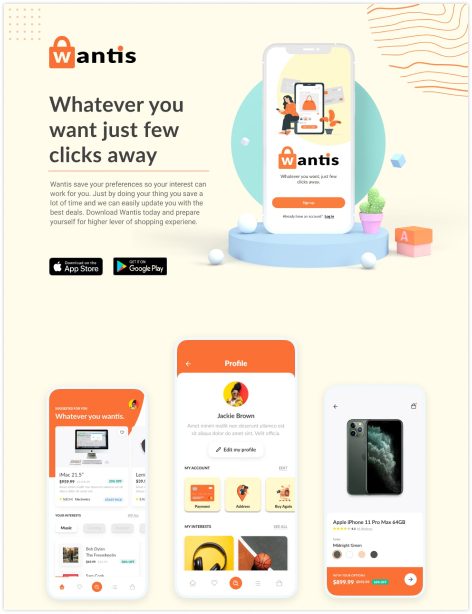
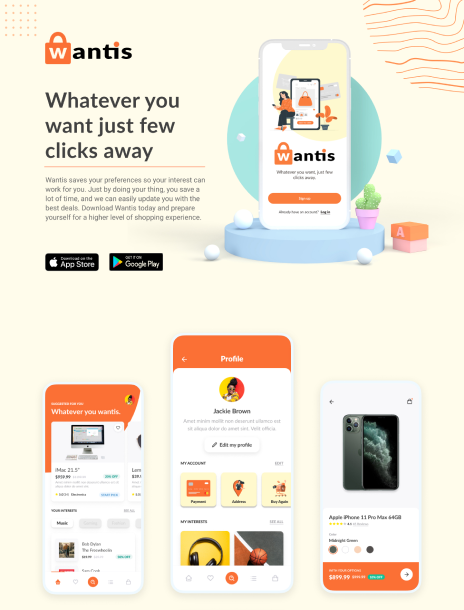
wantis

diff --git a/css/main.scss b/css/main.scss
@@ -825,7 +825,7 @@ color: white; }
             align-content: center;
             // z-index: 1;
             bottom: 0;
-            left: -157px;
+            left: -165px;
             background: white;
         }
         .wantis {

diff --git a/css/main.css b/css/main.css
@@ -961,7 +961,7 @@ input:checked ~ nav > ul > li {
   -ms-flex-line-pack: center;
       align-content: center;
   bottom: 0;
-  left: -157px;
+  left: -165px;
   background: white;
 }
 
